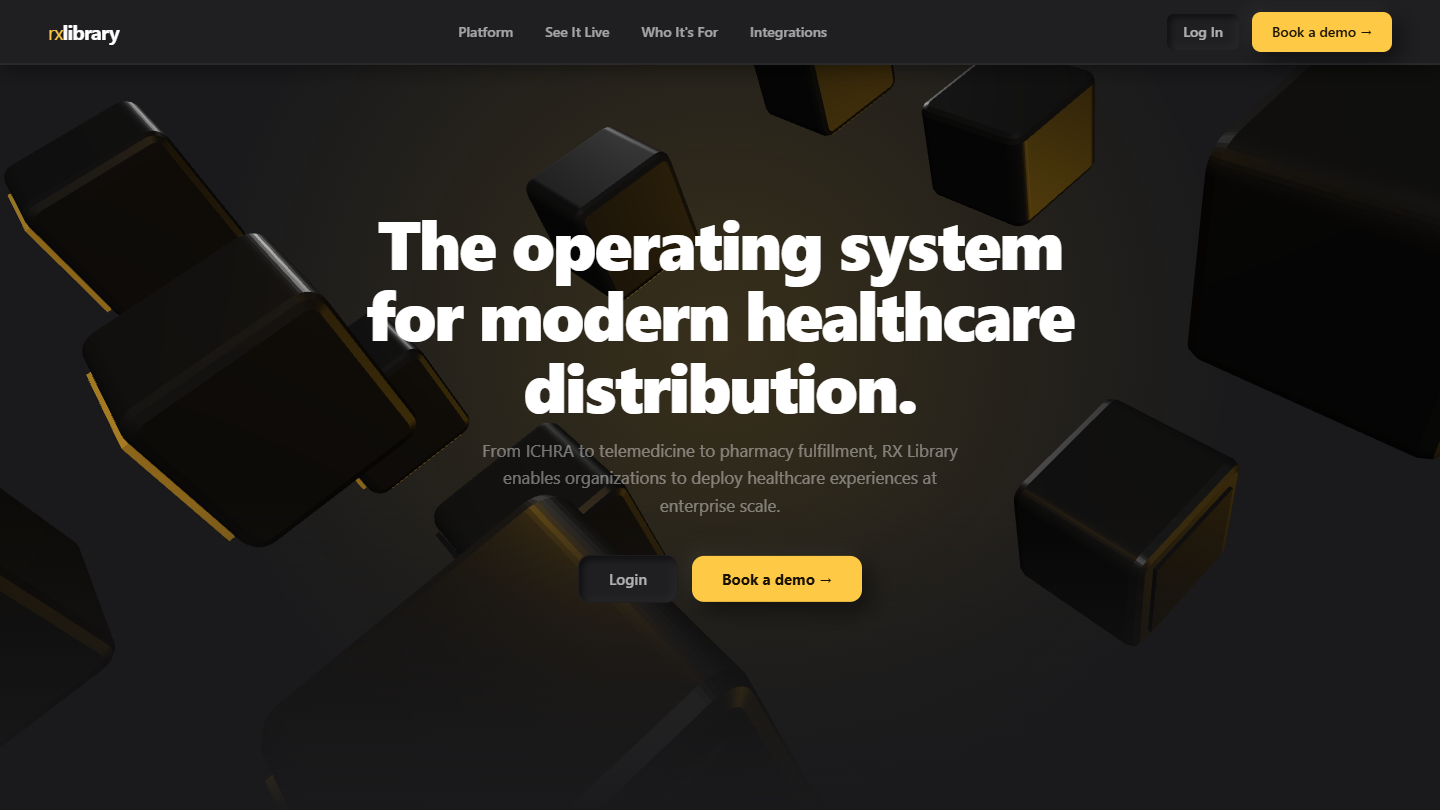
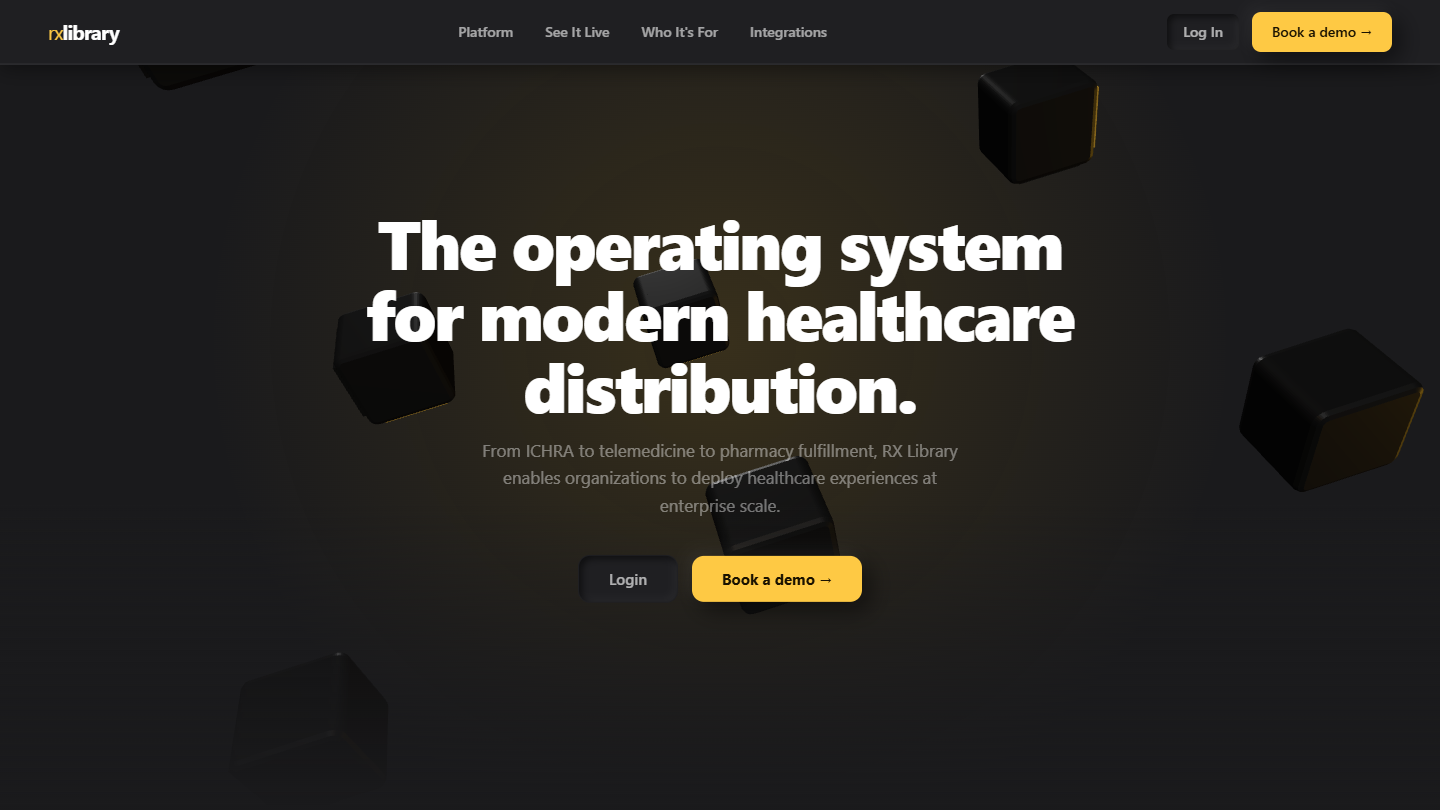
feat: section-by-section RX Library website case study; role and copy fixes
- RX Library Website: rewrite the case study section by section, each with
  a centred screenshot and the work behind it (Three.js cube state machine,
  sticky role stage, 3D white-label carousel, marquees, DOM-level animation)
- New hero thumbnail and mobile capture; superseded images removed
- The Long Run: restore first-person design credit (role confirmed:
  brand designer, under Proventheory supervision)
- PharmacyTime: drop the note about brand name and domain

diff --git a/app/projects/rxlibrary-homepage/page.tsx b/app/projects/rxlibrary-homepage/page.tsx
@@ -1,4 +1,5 @@
 import {
+    Callout,
     FeatureList,
     Figure,
     FigureGrid,
@@ -8,60 +9,208 @@ import {
     ProjectHeader,
     ProjectPage,
     Section,
+    StatTiles,
+    SubHeading,
+    Takeaways,
 } from "@/components/projects/ProjectPage"
 
 export const metadata = {
-    title: "RX Library Homepage - Work in Progress | Josh D. Rubio",
-    description: "Marketing homepage for the RX Library telehealth platform, built with Next.js, Tailwind CSS and a Three.js animation. Designed and developed end to end.",
+    title: "RX Library Website - Interactive Marketing Site | Josh D. Rubio",
+    description: "The marketing website of the RX Library telehealth platform: a scroll-driven Three.js narrative, a modular product story and interactive role previews. Designed and developed end to end, section by section.",
 }
 
 const IMG = "/assets/imgs/projects/rxlibrary-homepage"
 
-export default function RxLibraryHomepage() {
+export default function RxLibraryWebsite() {
     return (
         <ProjectPage>
             <ProjectHeader
                 badge={{ label: "View Live Site", href: "https://rxlibrary-homepage-prototype.vercel.app" }}
-                status="Work in progress"
-                title="RX Library - Homepage"
-                summary="The public face of the RX Library telehealth platform: a fast, animated marketing page that explains the product and points visitors to the patient, provider and operator experiences."
+                title="RX Library - Interactive Marketing Website"
+                summary="The public face of the RX Library telehealth platform: a scroll-driven story that explains a complex infrastructure product to enterprise buyers, led by a single 3D object that follows the visitor down the page."
                 meta={[
                     { label: "Role", value: "Design & Development" },
-                    { label: "Stack", value: "Next.js, Tailwind, Three.js" },
+                    { label: "Stack", value: "Next.js, Three.js, Tailwind" },
                     { label: "Deploy", value: "Vercel" },
-                    { label: "Status", value: "In progress" },
+                    { label: "Scope", value: "11 hand-tuned sections" },
                 ]}
-                hero={{ src: `${IMG}/thumbnail.png`, alt: "RX Library homepage" }}
+                hero={{ src: `${IMG}/thumbnail.png`, alt: "RX Library website hero" }}
             />
 
             <ProjectBody>
-                <Section title="Overview">
+                <Section title="1. Overview">
                     <Paragraph>
-                        This homepage is designed and built entirely by me and keeps evolving alongside the platform it presents (see the <a href="/projects/rx-library">RX Library</a> project). It lives as a standalone Next.js app that deploys as a static marketing page: no Docker, no backend, no internal packages.
+                        <strong>A product page that behaves like the product: precise, layered and alive.</strong> RX Library is the multi-tenant telehealth platform described in <a href="/projects/rx-library">its own case study</a>. This is its website, and I designed and built every part of it, from the visual language to each animation, with very fine control section by section.
                     </Paragraph>
                     <Paragraph>
-                        It is extracted from the main application and stays in sync with it, so the marketing site and the product share the same components and look.
+                        It is a standalone Next.js app that deploys as a static marketing page: no backend, no internal packages. Around 3,900 lines of TypeScript carry eleven sections, two Three.js scenes and all of their motion.
                     </Paragraph>
                 </Section>
 
-                <Section title="Highlights">
+                <Callout tone="danger" title="⚠ The Challenge">
+                    <p className="text-300 mb-2">
+                        The audience is not a patient any more. It is an organization deciding whether to build on a healthcare distribution platform, and the product is infrastructure, which is hard to show.
+                    </p>
+                    <ul className="text-300 mb-0">
+                        <li><strong>Abstract product:</strong> rules, integrations and data models have no natural picture</li>
+                        <li><strong>Many audiences:</strong> employers, providers, pharmacies and brands each need to see themselves in it</li>
+                        <li><strong>Trust:</strong> a regulated space punishes anything that looks improvised</li>
+                    </ul>
+                </Callout>
+
+                <Callout tone="success" title="✓ The Solution">
+                    <p className="text-300 mb-0">
+                        <strong>Make the abstract tangible, one section at a time.</strong> A 3D cube gives the platform a body and travels with the visitor. Each section then proves one claim with something you can watch or touch: a diagram of nodes, a carousel of brands, an order that moves itself through its lifecycle, live product screens that switch by role.
+                    </p>
+                </Callout>
+
+                <Section title="2. Design Language">
                     <FeatureList
                         items={[
-                            { title: "3D storytelling", text: "Black-and-gold Three.js cubes open and close the page, with a narrative cube that tells the product story." },
-                            { title: "One platform, one diagram", text: "A hub diagram shows how the pieces of the platform connect around a single core." },
-                            { title: "White-label showcase", text: "A carousel demonstrates how each operator can ship the platform under their own brand." },
-                            { title: "Built for every role", text: "Patient, clinician and operator previews in browser frames show what each user gets." },
-                            { title: "Scroll-reveal motion", text: "Fade-up transitions keep dense sections light and readable." },
-                            { title: "Lightweight by design", text: "Static deployment on Vercel with automatic deploys on every push." },
+                            { title: "Neumorphism", text: "Paired dark and white offset shadows give cards and buttons a soft, physical depth, and the whole site uses them consistently." },
+                            { title: "Palette", text: "Near-black surfaces, a light grey field and a single warm yellow accent, with a few status colours reserved for meaning." },
+                            { title: "Type", text: "A system font stack with tight tracking, 800-weight display headlines and fluid sizes that scale with the viewport." },
+                            { title: "Data-driven sections", text: "Arrays of brands, steps, roles, personas, cards and testimonials feed the sections, so copy changes never touch layout." },
                         ]}
                     />
                 </Section>
 
-                <Figure src={`${IMG}/narrative.png`} alt="Platform hub diagram" caption="Platform hub diagram" />
+                <Section title="3. One Cube for the Whole Page">
+                    <Paragraph>
+                        A single fixed Three.js canvas shows a 3×3×3 cube whose 27 pieces are rounded extruded boxes with glowing stickers, lit by an amber point light and a few fills. A scroll-threshold state machine moves it between key positions (hero, orbital section, white label, off-screen) and interpolates the camera, position, scale and light every frame. Positions are recomputed from the viewport on resize, the pixel ratio is capped, and the renderer is disposed on unmount. Using one canvas for the whole page means one WebGL context instead of one per section.
+                    </Paragraph>
+                </Section>
+
+                <Section title="4. Section by Section">
+                    <Paragraph>
+                        Every section below was tuned on its own. Here is what each one does and what went into it.
+                    </Paragraph>
+
+                    <SubHeading>Hero</SubHeading>
+                    <Paragraph>
+                        A full-height dark stage with a radial amber glow and one sentence: the operating system for modern healthcare distribution. The headline, sub-copy and the two calls to action fade in on a staggered timeline with a custom easing, type scales fluidly between 34 and 68 px, and the cube starts as a frozen explosion of pieces scattered radially that drift into place.
+                    </Paragraph>
+                </Section>
+                <Figure src={`${IMG}/mobile.png`} alt="Hero on mobile" caption="The hero at 390 px" narrow />
+
+                <SubHeading>Trust strip</SubHeading>
+                <Paragraph>
+                    A quiet row of compliance and coverage badges with custom inline SVG icons at low opacity and a tracked uppercase label, revealed with an IntersectionObserver-driven rise so it never competes with the hero.
+                </Paragraph>
+                <Figure src={`${IMG}/section-02-trust.png`} alt="Trust strip" caption="Trust strip" />
+
+                <SubHeading>Platform architecture</SubHeading>
+                <Paragraph>
+                    The first big idea: one platform for every stakeholder. A tall gradient bridges from the dark hero into a light field, and eight orbital nodes (ICHRA, clinician, e-prescribing, pharmacy, provider network, payments, patient and admin) sit on SVG rings with glow filters, each as a neumorphic card with its own accent colour and a staggered entrance. The 3D cube sits at the centre and performs random 90-degree face-slice turns: nine slices around a pivot group that snap back into place.
+                </Paragraph>
+                <Figure src={`${IMG}/section-03-platform.png`} alt="Platform architecture" caption="Eight nodes orbiting the cube" />
+
+                <SubHeading>White label</SubHeading>
+                <Paragraph>
+                    &quot;Your brand.&quot; cycles through a six-colour palette on a ten-second loop, in step with the cube&apos;s own colour cycle. Below it, an elliptic 3D carousel presents six fictional brands, computing a translate, rotation, depth and scale for every position and entering from the right direction. Each card previews its own font pairing and colour chips, using sixteen imported Google fonts, with a three-second autoplay and pagination pills.
+                </Paragraph>
+                <Figure src={`${IMG}/section-04-whitelabel.png`} alt="White label carousel" caption="The 3D carousel and the colour-cycling cube" />
+                <Figure src={`${IMG}/section-04b-whitelabel.png`} alt="White label carousel, another brand" caption="A different active brand: the cube and the headline recolour together" />
+
+                <SubHeading>Care network</SubHeading>
+                <Paragraph>
+                    A deliberately asymmetric layout: a two-column grid where the right column is an 800 px dark card, and behind it a six-by-three field of eighteen bento cards fades out through a gradient mask. Three cards at a time flash an energy stroke, applied straight to the DOM classes so nothing re-renders, and the four headline figures count up one after another with a requestAnimationFrame counter and cubic easing, triggered when the section is 40% visible.
+                </Paragraph>
+                <Figure src={`${IMG}/section-05-care.png`} alt="Care network" caption="Care network: dark card over a fading bento field" />
+
+                <SubHeading>End-to-end automation</SubHeading>
+                <Paragraph>
+                    An order tracker that runs itself: an eight-step card from intake to delivery advances every two and a half seconds, holds on the final state, and shows a progress percentage, a status pill, a cascade of dots and a pop with a green pulse when the order is complete. A floating product card hovers beside it on a slow vertical loop.
+                </Paragraph>
                 <FigureGrid
                     images={[
-                        { src: `${IMG}/previews.png`, alt: "Role previews", caption: "Built for every role" },
-                        { src: `${IMG}/mobile.png`, alt: "Mobile view", caption: "Mobile" },
+                        { src: `${IMG}/section-06-e2e.png`, alt: "Order tracker mid-flow", caption: "Mid-flow: consult complete" },
+                        { src: `${IMG}/section-06b-e2e.png`, alt: "Order tracker delivered", caption: "Delivered" },
+                    ]}
+                />
+
+                <SubHeading>See it in action</SubHeading>
+                <Paragraph>
+                    The centrepiece is a 320vh scroll track with a sticky full-height stage. Scroll progress, computed from the section&apos;s bounding box, drives a browser-chrome card that tilts in (a 20-degree rotation flattening while it scales up over the first fifth), then switches role at one third and two thirds: patient, clinician, admin. Three real product screens crossfade through <code>next/image</code>, the copy remounts with its own entrance, and a segmented indicator tracks the three roles.
+                </Paragraph>
+                <Figure src={`${IMG}/section-07-seeit-patient.png`} alt="See it in action: patient" caption="Patient" />
+                <FigureGrid
+                    images={[
+                        { src: `${IMG}/section-07b-seeit-clinician.png`, alt: "See it in action: clinician", caption: "Clinician" },
+                        { src: `${IMG}/section-07c-seeit-admin.png`, alt: "See it in action: admin", caption: "Admin" },
+                    ]}
+                />
+
+                <SubHeading>From stall to resolved</SubHeading>
+                <Paragraph>
+                    Directly below the sticky stage, four story cards (stall detected, auto-flagged, reassigned, resolved) turn a boring exception into a narrative, with red, yellow and green status dots, a highlighted active card and a progress line with nodes.
+                </Paragraph>
+                <Figure src={`${IMG}/section-08-stall.png`} alt="Stall story" caption="From stall to resolved, automatically" />
+
+                <SubHeading>Built for your world</SubHeading>
+                <Paragraph>
+                    One section that morphs for four audiences: employers, retail providers, pharmacies and brands. It auto-cycles every five seconds with a progress bar, pauses on hover, and lets you switch manually, re-entering with staggered bullets. The headline changes with the persona, and so does a dark UI card: an HR dashboard with utilization bars, a patient queue, a fulfillment pipeline and a brand configurator.
+                </Paragraph>
+                <FigureGrid
+                    images={[
+                        { src: `${IMG}/section-09-adapt-employers.png`, alt: "Employers", caption: "Employers: benefits dashboard" },
+                        { src: `${IMG}/section-09b-adapt-providers.png`, alt: "Retail providers", caption: "Retail providers: patient queue" },
+                        { src: `${IMG}/section-09c-adapt-pharmacies.png`, alt: "Pharmacies", caption: "Pharmacies: fulfillment pipeline" },
+                        { src: `${IMG}/section-09d-adapt-brands.png`, alt: "Brands", caption: "Brands: configuration" },
+                    ]}
+                />
+
+                <SubHeading>The network speaks</SubHeading>
+                <Paragraph>
+                    Social proof as motion: two full-bleed marquee rows of fourteen quotes, in cards offset from each other and scrolling in opposite directions at different speeds, accelerated on the compositor with <code>will-change</code> and paused on hover. The headline is embossed with a text shadow on the light field.
+                </Paragraph>
+                <Figure src={`${IMG}/section-10-testimonials.png`} alt="Testimonials marquee" caption="Two counter-scrolling marquees" />
+
+                <SubHeading>Call to action and footer</SubHeading>
+                <Paragraph>
+                    The page closes on a dark two-column call to action beside a second, self-contained Three.js scene: a levitating cube with a slow rotation and a glow pulse. Its render loop pauses through an IntersectionObserver whenever it is off-screen.
+                </Paragraph>
+                <Figure src={`${IMG}/section-11-cta.png`} alt="Call to action and footer" caption="Call to action with the footer cube" />
+
+                <Section title="5. Technical Decisions">
+                    <SubHeading>One canvas, a state machine</SubHeading>
+                    <Paragraph>
+                        A single fixed canvas driven by scroll thresholds avoids a WebGL context per section, and interpolating toward each key position keeps the motion smooth whatever the scroll speed.
+                    </Paragraph>
+                    <SubHeading>Bypass React where it would hurt</SubHeading>
+                    <Paragraph>
+                        The random energy blinks toggle CSS classes directly on the DOM and the counters run on requestAnimationFrame, so continuous animation never triggers a re-render.
+                    </Paragraph>
+                    <SubHeading>Pause what you cannot see</SubHeading>
+                    <Paragraph>
+                        The footer scene stops rendering off-screen, the carousel and the persona cycle pause on hover, and the heavy 3D component is loaded on the client only.
+                    </Paragraph>
+                    <SubHeading>Static deployment</SubHeading>
+                    <Paragraph>
+                        The site has no backend, deploys to Vercel and updates on every push. It is extracted from the main application and stays in sync with it.
+                    </Paragraph>
+                </Section>
+
+                <Section title="6. How It Evolved">
+                    <Paragraph>
+                        The history shows how fine-grained the work was. After the standalone extraction, a visual overhaul introduced the neumorphic language, a key position for the cube and the font carousel. The care-network dark card, button hover effects, the footer cube and the sequential stat animations followed, and a final redesign added the testimonials carousel and section theming. In this repository the page roughly doubled in size in three days, from about 1,400 to 2,900 lines.
+                    </Paragraph>
+                    <StatTiles
+                        items={[
+                            { value: "11", label: "sections" },
+                            { value: "2", label: "Three.js scenes" },
+                            { value: "27", label: "cube pieces" },
+                            { value: "14", label: "testimonials" },
+                            { value: "3.9k", label: "lines of TypeScript" },
+                        ]}
+                    />
+                </Section>
+
+                <Takeaways
+                    items={[
+                        { title: "Give the abstract a body", text: "A single recurring 3D object made an infrastructure product feel like one thing." },
+                        { title: "One claim per section", text: "Each section proves exactly one idea with something the visitor can watch or touch." },
+                        { title: "Performance is part of the design", text: "One canvas, direct DOM updates and paused loops kept a very animated page light." },
                     ]}
                 />
 

diff --git a/app/projects/the-long-run/page.tsx b/app/projects/the-long-run/page.tsx
@@ -32,7 +32,7 @@ export default function TheLongRun() {
                 title="The Long Run - Brand Identity"
                 summary="A pet nutrition brand that borrows the language of old-school track and field. One promise, More Days Together, carried by a wordmark, a badge, a running dog and cat, and a color system where only the flavor changes."
                 meta={[
-                    { label: "Role", value: "Brand Design" },
+                    { label: "Role", value: "Brand Designer" },
                     { label: "Category", value: "Pet nutrition" },
                     { label: "Scope", value: "Identity, packaging, social, email" },
                     { label: "Brand book", value: "v03, Sept 2026" },
@@ -46,7 +46,7 @@ export default function TheLongRun() {
                         <strong>Every part of the identity exists to carry one promise: More Days Together.</strong> The Long Run makes single-ingredient, freeze-dried treats for dogs and cats that are human grade, protein packed and crafted for vitality. The name and the track-and-field world it borrows from say the same thing twice: this is nutrition built for a lifetime, not a trend.
                     </Paragraph>
                     <Paragraph>
-                        The identity system was applied to packaging, social and apparel, and then extended to the brand&apos;s email program. The result is a brand that is documented in a 24-slide brand book, and where every element ships as a locked file that is used exactly as supplied.
+                        I designed the identity system, applied it to packaging, social and apparel, and then rebuilt the brand&apos;s email program on top of it, working under the supervision of the Proventheory team. The result is a brand that is documented in a 24-slide brand book, and where every element ships as a locked file that is used exactly as supplied.
                     </Paragraph>
                 </Section>
                 <Figure src={`${IMG}/mockup-five-flavors.webp`} alt="The five flavors of The Long Run stand-up pouch" caption="Five flavors, one layout: only the flavor color changes" />
@@ -182,7 +182,7 @@ export default function TheLongRun() {
 
                 <Section title="9. Applied: The Email System">
                     <Paragraph>
-                        The last area was email, where <strong>a brand usually falls apart</strong>: templates get built one at a time, with different fonts, colors and voice. Six flows were rebuilt on the brand book, thirty emails in total, as a single system with one grammar of fifteen blocks. Blocks drop out when an email does not need them, and nothing else moves.
+                        The last area was email, where <strong>a brand usually falls apart</strong>: templates get built one at a time, with different fonts, colors and voice. I rebuilt six flows on the brand book, thirty emails in total, as a single system with one grammar of fifteen blocks. Blocks drop out when an email does not need them, and nothing else moves.
                     </Paragraph>
                     <FeatureList
                         items={[

diff --git a/app/projects/pharmacy-time/page.tsx b/app/projects/pharmacy-time/page.tsx
@@ -35,7 +35,7 @@ export default function PharmacyTime() {
             <ProjectBody>
                 <Section title="Overview">
                     <Paragraph>
-                        Client project developed for the agency Proventheory, for the Pharmacy Time brand. I designed the site and built the custom theme, the WooCommerce store and the tooling around it, from catalog import to deployment. The brand now appears live as Pharmacy You (the pharmacytime.com domain redirects there), which is the name visible in the screenshots.
+                        Client project developed for the agency Proventheory, for the Pharmacy Time brand. I designed the site and built the custom theme, the WooCommerce store and the tooling around it, from catalog import to deployment.
                     </Paragraph>
                 </Section>
 
